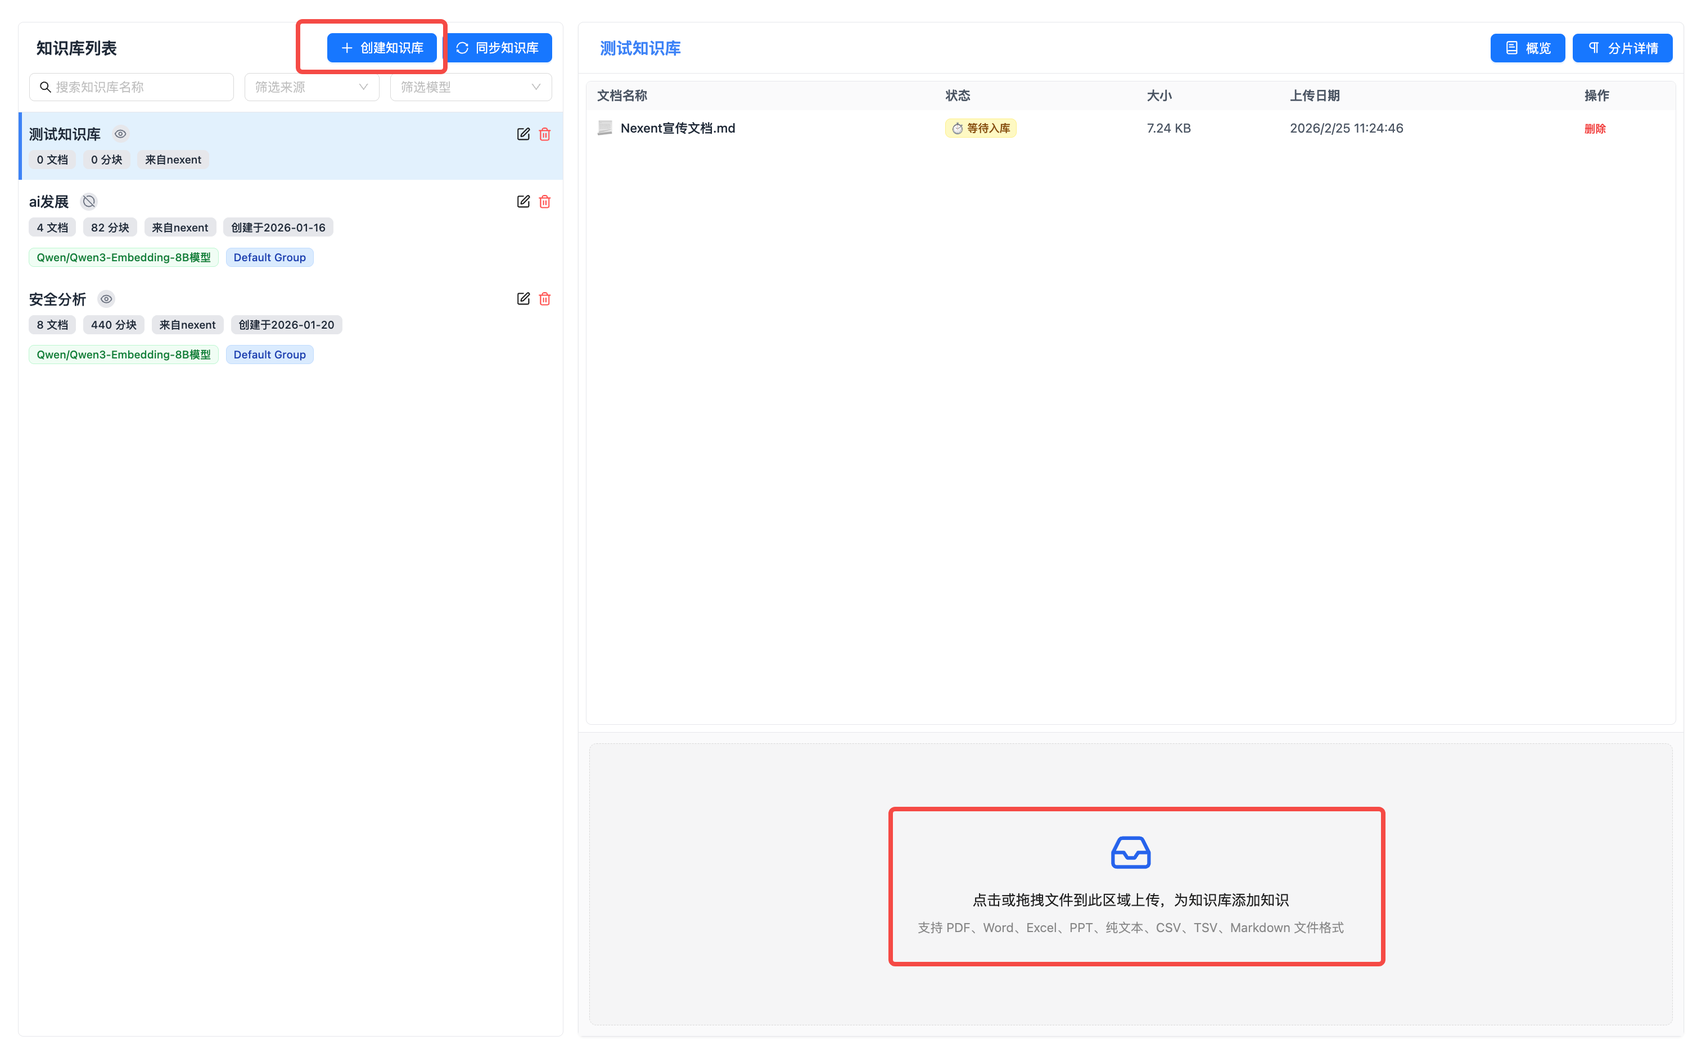
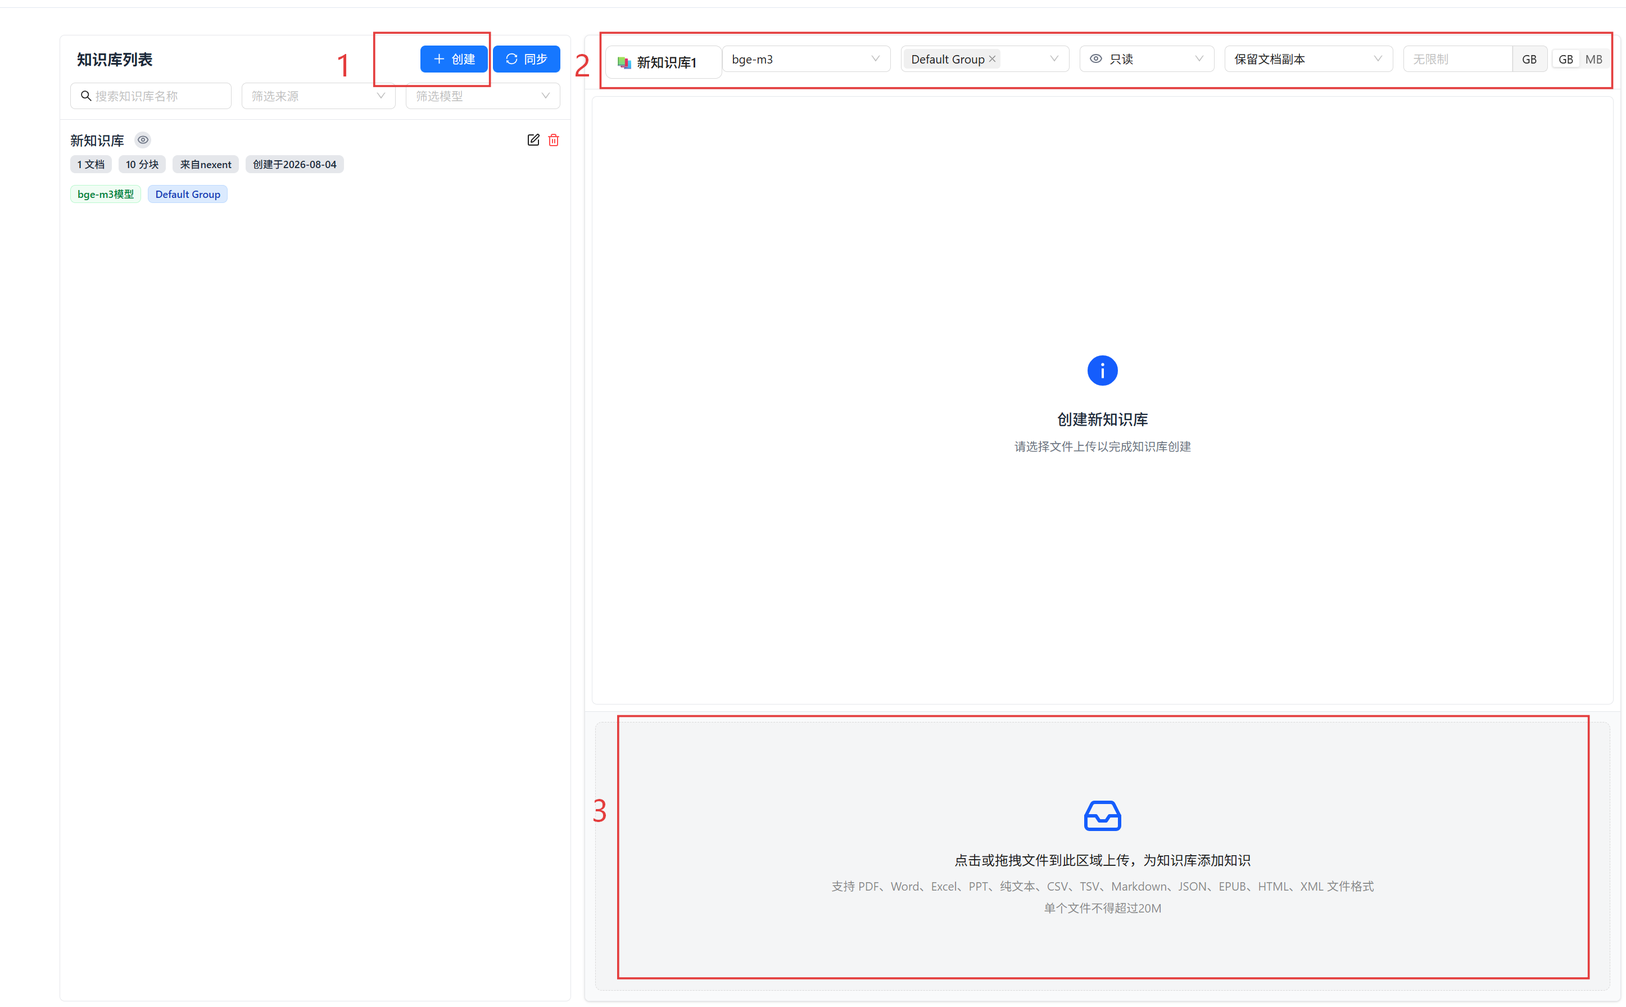
📝docs:update kbs docs

diff --git a/doc/docs/zh/user-guide/agent-development/knowledge-configuration.md b/doc/docs/zh/user-guide/agent-development/knowledge-configuration.md
@@ -4,8 +4,23 @@
 
 ## 🔧 创建知识库
 
-1. 点击"创建知识库"按钮
-2. 为知识库设置一个易于识别的名称
+1. 点击左侧知识库列表上方的"创建知识库"按钮
+2. 在弹出的创建面板中，填写以下配置项：
+
+| 配置项         | 说明                                                                                                                                                                                                                             |
+| -------------- | -------------------------------------------------------------------------------------------------------------------------------------------------------------------------------------------------------------------------------- |
+| **知识库名称** | 必填，名称必须唯一，且只能包含中文字符或小写字母，不允许空格、斜杠等特殊字符。系统会在输入时自动检测名称是否重复                                                                                                                 |
+| **向量模型**   | 选择用于文档向量化的 Embedding 模型。模型分为两类：**文本向量模型（embedding）** 和 **多模态向量模型（multi_embedding）**。选择多模态向量模型后，知识库将自动支持图片等非文本内容的向量化处理。详见[向量模型说明](#向量模型说明) |
+| **用户组**     | 选择知识库可见的用户组（多选），控制哪些用户组可以查看和使用该知识库                                                                                                                                                             |
+| **组内权限**   | 设置用户组内成员对该知识库的操作权限：**编辑（EDIT）** - 可上传/删除文件；**只读（READ_ONLY）** - 仅可查看和检索；**私有（PRIVATE）** - 仅创建者可用                                                                             |
+| **保留源文件** | 开启后，上传的原始文件会被保留存储在系统中，方便后续重新处理或下载；关闭则仅保留向量化后的数据                                                                                                                                   |
+| **存储配额**   | 可选，为该知识库设置存储上限（支持 GB/MB 单位切换）。当上传文件导致存储用量接近配额时，系统会发出预警提示                                                                                                                        |
+
+3. 配置完成后，在下方文件上传区域选择要上传的文件（可跳过，后续再上传）
+4. 文件上传后系统自动创建知识库并开始处理文件
+
+
+![创建知识库](../assets/knowledge-base/create-knowledge-base.png)
 
 ## 📁 上传文件
 
@@ -14,13 +29,28 @@
 1. 在知识库列表中选择要上传文件的知识库
 2. 点击文件上传区域，选择要上传的文件（支持多选），或直接拖拽文件到上传区域
 3. 系统会自动处理上传的文件，提取文本内容并进行向量化
-4. 可在列表中查看文件的处理状态（解析中/入库中/已就绪）
+4. 可在列表中查看文件的处理状态
 
-![文件上传](../assets/knowledge-base/create-knowledge-base.png)
+:::tip 文件大小限制
+单个文件上传大小限制为 **20 MB**。超过此限制的文件将无法上传。
+:::
 
-💡 光标移动至状态，以了解进度及报错原因
+### 文件处理状态
 
-![文件上传](../assets/knowledge-base/tip.png)
+文件上传后会经过多个处理阶段，共有 6 种状态：
+
+| 状态         | 说明                                                                 |
+| ------------ | -------------------------------------------------------------------- |
+| 等待处理     | 文件已上传，排队等待开始解析                                         |
+| **解析中**   | 系统正在提取文件文本内容                                             |
+| **入库中**   | 文本内容正在进行向量化并写入向量数据库                               |
+| **已就绪**   | 文件处理完成，可正常检索使用                                         |
+| **解析失败** | 文件解析过程中出错。将光标移至状态图标可查看详细错误原因和排查建议   |
+| **入库失败** | 向量化入库过程中出错。将光标移至状态图标可查看详细错误原因和排查建议 |
+
+💡 光标移动至状态图标，以了解当前处理进度（如"已处理 23/50 个分片"）及失败状态的报错原因
+
+![文件进度与错误提示](../assets/knowledge-base/tip.png)
 
 ### 支持的文件格式
 
@@ -39,18 +69,81 @@ Nexent支持多种文件格式，包括：
 
 建议您为每个知识库配置准确且完整的总结描述，这有助于后续智能体在进行检索时，准确选择合适的知识库。
 
-1. 点击“详细内容”按钮进入知识库详细内容查看界面
-2. 选择合适的模型，点击“自动总结”按钮为知识库自动生成内容总结
+### 手动生成与编辑总结
+
+1. 点击知识库名称右侧的"详细内容"按钮，进入知识库概览页面
+2. 在概览页面选择合适的大语言模型（LLM），点击"自动总结"按钮为知识库自动生成内容总结
 3. 您可对生成的内容总结进行编辑修改，使其更准确
-4. 最后记得点击“保存”将您的修改保存
+4. 最后记得点击"保存"将您的修改保存
 
 ![内容总结](../assets/knowledge-base/summary-knowledge-base.png)
 
+### 自动总结频率
+
+除了手动触发总结，您还可以为知识库设置**定时自动总结**，让系统在后台定期重新生成知识库的内容总结：
+
+| 频率选项 | 说明                                     |
+| -------- | ---------------------------------------- |
+| 1 小时   | 高频更新，适用于内容变化频繁的知识库     |
+| 3 小时   | 中高频更新                               |
+| 6 小时   | 中频更新                                 |
+| 1 天     | 每天更新一次，适用于大多数场景           |
+| 1 周     | 每周更新一次，适用于内容较为稳定的知识库 |
+
+在概览页面的总结区域选择频率即可。系统会智能判断知识库是否有文档更新，若无新文档变更则跳过本次自动生成，避免不必要的资源消耗。
+
+## 📂 Chunk 分片管理
+
+文档上传后，系统会将文档拆分为多个 **Chunk（分片）**，每个分片包含一段文本内容并生成对应的向量索引。您可以对分片进行精细化管理：
+
+### 查看分片
+
+1. 点击知识库名称进入文档列表
+2. 点击上方"Chunk 详情"标签页
+3. 页面顶部会列出知识库中的所有文档，点击某个文档即可查看该文档被拆分出的全部分片
+4. 分片以卡片形式展示，包含分片内容和所属文件名
+
+### 搜索分片
+
+在 Chunk 详情页使用搜索框进行搜索，系统会同时对结果进行关键词匹配和语义匹配（混合搜索），按综合相关性排序展示。
+
+### 手动管理分片
+
+| 操作     | 说明                                       |
+| -------- | ------------------------------------------ |
+| **创建** | 在 Chunk 详情页手动添加自定义分片内容      |
+| **编辑** | 点击分片卡片进入编辑模式，修改分片文本内容 |
+| **删除** | 删除不需要的分片                           |
+| **下载** | 将分片内容导出下载                         |
+
+:::warning 模型兼容性限制
+分片的编辑和创建操作依赖向量模型的一致性。如果模型配置发生变化，相关操作可能被自动禁用，以防止产生不兼容的向量数据。
+:::
+
+![分片管理](../assets/knowledge-base/chunk_management.png)
+
+
+
+## 🧩 向量模型说明
+
+系统中的 Embedding 模型分为两类：
+
+- **文本向量模型（embedding）**：用于纯文本文档的向量化，如 BGE、M3E 等
+- **多模态向量模型（multi_embedding）**：可同时处理文本和图片内容，如 DashScope、Jina 等
+
+知识库创建时选择的向量模型会与该知识库绑定。建议在创建知识库时根据文档类型选择合适的模型，创建后该模型将贯穿知识库的整个生命周期。
+
 ## 🔧 使用知识库
 
-Nexent支持知识库与智能体单独绑定，在创建智能体时，**启用knowledge_base_search工具**，并选择关联的知识库
-<img src="../assets/knowledge-base/knowledge-tool.png" alt="工具1" style="width:75%;">
+Nexent 支持知识库与智能体绑定。创建智能体时，在工具配置区域启用对应的知识库检索工具，并选择关联的知识库。
+
+根据知识库来源的不同，系统提供对应的检索工具。Nexent 原生知识库使用 **knowledge_base_search** 工具：
+
+![工具1](../assets/knowledge-base/knowledge-tool1.png)
+
 ![工具2](../assets/knowledge-base/knowledge-tool2.png)
+
+在工具配置弹窗中，您可看到已绑定的知识库列表，支持搜索和勾选操作。每个知识库旁边会显示其向量模型信息，帮助您确认兼容性。
 
 ## 🔍 知识库管理
 
@@ -58,25 +151,38 @@ Nexent支持知识库与智能体单独绑定，在创建智能体时，**启用
 
 1. **知识库列表**
    - 知识库页面左侧展示了所有已创建的知识库
-   - 知识库列表处支持对知识库来源和向量模型的筛选
-   - 显示知识库名称、文件数量、创建时间、用户组等信息
+   - 知识库列表处支持按名称搜索、按知识库来源和向量模型筛选
+   - 每张知识库卡片展示以下信息：
+
+   | 信息项       | 说明                                                   |
+   | ------------ | ------------------------------------------------------ |
+   | 知识库名称   | 创建时设定的名称                                       |
+   | 文档数量     | 已上传的文档总数                                       |
+   | 分片数量     | 文档拆分后的 chunk 总数                                |
+   | 来源         | 知识库来源（Nexent 原生 / 外部来源）                   |
+   | 创建时间     | 知识库创建日期                                         |
+   | 向量模型     | 绑定的 Embedding 模型名称                              |
+   | 多模态标签   | 若启用多模态则显示                                     |
+   | 用户组标签   | 该知识库可见的用户组名称                               |
+   | 权限图标     | 当前用户对该知识库的操作权限（将光标移至图标查看说明） |
+   | 无源文件标签 | 若已关闭"保留源文件"则显示                             |
+
+2. **知识库详情**
+   - 点击知识库名称，可查看知识库中全部文档信息
+   - 点击"详细内容"，可进入知识库概览页面查看和编辑内容总结
 
 > 点击编辑，可管理知识库的名称、可见的用户组及组内权限
 
 <img src="../assets/knowledge-base/knowledge-base-permission.png" alt="知识库权限" style="width:50%;">
 
-2. **知识库详情**
-   - 点击知识库名称，可查看知识库中全部文档信息
-   - 点击“详细内容”，可查看知识库的内容总结
-
 ### 编辑知识库
 
 1. **删除知识库**
-   - 点击知识库名称右侧“删除”按钮
+   - 点击知识库名称右侧"删除"按钮
    - 确认删除操作（此操作不可恢复）
 
 2. **删除或新增文件**
-   - 点击知识库名称，在文件列表中点击“删除”按钮，可从知识库中删除文件
+   - 点击知识库名称，在文件列表中点击"删除"按钮，可从知识库中删除文件
    - 点击知识库名称，在文件列表下方文件上传区域，可新增文件到知识库中
 
 ## 🚀 下一步

diff --git a/doc/docs/en/user-guide/agent-development/knowledge-configuration.md b/doc/docs/en/user-guide/agent-development/knowledge-configuration.md
@@ -4,9 +4,23 @@ Create and manage knowledge bases, upload documents, and generate summaries. Kno
 
 ## 🔧 Create a Knowledge Base
 
-1. Click **Create Knowledge Base**
-2. Enter a descriptive, unique name
-   > **Note:** Knowledge base names must be unique and can only contain Chinese characters or lowercase letters. Spaces, slashes, and other special characters are not allowed.
+1. Click **Create Knowledge Base** at the top of the left-side list
+2. In the creation panel, fill in the following fields:
+
+| Field | Description |
+|-------|-------------|
+| **Name** | Required. Must be unique and can only contain Chinese characters or lowercase letters. Spaces, slashes, and other special characters are not allowed. The system automatically checks for duplicates as you type |
+| **Embedding Model** | Choose the vector model used to embed your documents. Models fall into two groups: **Text Embedding (embedding)** and **Multimodal Embedding (multi_embedding)**. Selecting a multimodal model automatically enables vectorization of non-text content such as images. See [Embedding Model Types](#embedding-model-types) |
+| **User Groups** | Select which user groups can access this knowledge base (multi-select) |
+| **In-Group Permission** | Controls what group members can do: **Edit** — upload and delete files; **Read Only** — view and search only; **Private** — only the creator can access |
+| **Preserve Source File** | When enabled, uploaded files are kept in the system for later re-processing or download. When disabled, only the vectorized data is stored |
+| **Storage Quota** | Optional. Set a storage cap for the knowledge base (switchable between GB and MB). The system raises a warning when storage usage approaches the quota |
+
+3. After configuring the fields above, select files to upload in the upload area below (or skip and upload later)
+4. Once files are uploaded, the knowledge base is created and processing begins automatically
+
+
+![Create Knowledge Base](../assets/knowledge-base/create-knowledge-base.png)
 
 ## 📁 Upload Files
 
@@ -15,23 +29,39 @@ Create and manage knowledge bases, upload documents, and generate summaries. Kno
 1. Select a knowledge base from the list
 2. Click the upload area to pick files (multi-select supported) or drag them in directly
 3. Nexent automatically parses files, extracts text, and vectorizes the content
-4. Track the processing status in the list (Parsing/Ingesting/Ready)
+4. Track the processing status in the document list
 
-![File Upload](../assets/knowledge-base/create-knowledge-base.png)
+:::tip File Size Limit
+Maximum upload size per file is **20 MB**. Files exceeding this limit cannot be uploaded.
+:::
 
-💡 Hover over the status to understand the progress and error reasons
+### Document Processing Status
 
-![File Upload](../assets/knowledge-base/tip.png)
+Uploaded files go through multiple stages. There are 6 distinct statuses:
+
+| Status | Description |
+|--------|-------------|
+| Waiting | File uploaded and queued for processing |
+| **Parsing** | System is extracting text content from the file |
+| **Ingesting** | Text is being vectorized and written into the vector database |
+| **Ready** | Processing complete — the document is available for retrieval |
+| **Parse Failed** | An error occurred during parsing. Hover over the status icon to see the detailed error reason and troubleshooting suggestions |
+| **Ingest Failed** | An error occurred during vectorization. Hover over the status icon to see the detailed error reason and troubleshooting suggestions |
+
+💡 Hover over the status icon to view real-time progress (e.g., "23/50 chunks processed") and error details for failed documents.
+
+![Processing Progress and Error Tooltip](../assets/knowledge-base/tip.png)
 
 ### Supported File Formats
 
 Nexent supports multiple file formats, including:
-- **Text:** .txt, .md, .csv, .json
+
+- **Text:** .txt, .md, .json
 - **PDF:** .pdf
 - **Word:** .docx
 - **PowerPoint:** .pptx
-- **EPUB:** .epub
 - **Excel:** .xlsx
+- **EPUB:** .epub
 - **Data files:** .csv
 - **Web content:** .html, .xml
 
@@ -39,20 +69,81 @@ Nexent supports multiple file formats, including:
 
 Give every knowledge base a clear summary so agents can pick the right source during retrieval.
 
-1. Click **Details** to open the detailed view
-2. Choose a model and click **Auto Summary** to generate a description
+### Generate and Edit Summaries Manually
+
+1. Click **Details** to the right of the knowledge base name to open the overview page
+2. In the overview page, choose an LLM model and click **Auto Summary** to generate a description
 3. Edit the generated text to improve accuracy
 4. Click **Save** to store your changes
 
 ![Content Summary](../assets/knowledge-base/summary-knowledge-base.png)
 
+### Scheduled Auto-Summary
+
+In addition to manual triggers, you can configure **scheduled auto-summary** to let the system periodically regenerate the knowledge base summary in the background:
+
+| Frequency | Description |
+|-----------|-------------|
+| 1 Hour | High-frequency updates — suitable for knowledge bases with frequent content changes |
+| 3 Hours | Medium-high frequency updates |
+| 6 Hours | Medium frequency updates |
+| 1 Day | Once a day — suitable for most scenarios |
+| 1 Week | Once a week — suitable for mostly static knowledge bases |
+
+Select the frequency in the summary section of the overview page. The system intelligently checks whether the knowledge base has received document updates since the last run; if no new documents have been added or changed, the generation is skipped to save resources.
+
+## 📂 Chunk Management
+
+After upload, each document is split into multiple **Chunks**. Each chunk contains a segment of text and has a corresponding vector index entry. You can perform fine-grained management on chunks.
+
+### Viewing Chunks
+
+1. Click a knowledge base name to open the document list
+2. Click the **Chunk Details** tab at the top
+3. All documents in the knowledge base are listed at the top of the page. Click any document to view all of its chunks
+4. Chunks are displayed as cards showing the chunk content and the source file name
+
+### Searching Chunks
+
+Use the search box on the Chunk Details page to search for chunks. The system performs a hybrid search combining keyword matching and semantic matching, and returns results ranked by overall relevance.
+
+### Manually Managing Chunks
+
+| Action | Description |
+|--------|-------------|
+| **Create** | Add a custom chunk manually on the Chunk Details page |
+| **Edit** | Click a chunk card to enter edit mode and modify its text content |
+| **Delete** | Remove unwanted chunks |
+| **Download** | Export chunk content as a download |
+
+:::warning Model Compatibility Restriction
+Chunk edit and create operations depend on embedding model consistency. If the model configuration has changed, these operations may be automatically disabled to prevent incompatible vector data from being written.
+:::
+
+![Chunk Management](../assets/knowledge-base/chunk_management.png)
+
+
+
+## 🧩 Embedding Model Types
+
+Embedding models in the system are divided into two categories:
+
+- **Text Embedding models (embedding)**: For vectorizing pure text documents (e.g., BGE, M3E)
+- **Multimodal Embedding models (multi_embedding)**: Can process both text and image content (e.g., DashScope, Jina)
+
+The embedding model selected when a knowledge base is created remains bound to that knowledge base for its entire lifecycle. Choose the appropriate model type based on your document content when creating a knowledge base.
+
 ## 🔧 Using Knowledge Bases
 
-Nexent supports binding knowledge bases to agents individually. When creating an agent, **enable the knowledge_base_search tool** and select the associated knowledge base.
+Nexent supports binding knowledge bases to agents. When creating an agent, enable the appropriate knowledge retrieval tool in the tool configuration panel and select the associated knowledge bases.
 
-<img src="../assets/knowledge-base/knowledge-tool.png" alt="Tool 1" style="width:75%;">
+For Nexent-native knowledge bases, enable the **knowledge_base_search** tool:
+
+![Tool 1](../assets/knowledge-base/knowledge-tool1.png)
 
 ![Tool 2](../assets/knowledge-base/knowledge-tool2.png)
+
+Inside the tool configuration modal, you will see the list of bound knowledge bases with search and multi-select support. Each knowledge base displays its embedding model name so you can confirm compatibility before binding.
 
 ## 🔍 Knowledge Base Management
 
@@ -60,10 +151,29 @@ Nexent supports binding knowledge bases to agents individually. When creating an
 
 1. **Knowledge Base List**
    - The left column lists every created knowledge base
-   - Shows the name, file count, creation time, and more
+   - Supports searching by name and filtering by knowledge source or embedding model
+   - Each knowledge base card shows the following information:
+
+   | Info | Description |
+   |------|-------------|
+   | Name | The name set at creation time |
+   | Document Count | Total number of uploaded documents |
+   | Chunk Count | Total number of document chunks after splitting |
+   | Source | Knowledge base origin (Nexent native / external source) |
+   | Created At | Date when the knowledge base was created |
+   | Embedding Model | Name of the bound embedding model |
+   | Multimodal Badge | Shown if multimodal support is enabled |
+   | User Group Tags | Names of the user groups this knowledge base is visible to |
+   | Permission Icon | Your current access level for this knowledge base (hover over the icon to see details) |
+   | No Source File Badge | Shown when "Preserve Source File" is disabled |
+
 2. **Knowledge Base Details**
-   - Click a knowledge base to see all documents
-   - Click **Details** to view or edit the summary
+   - Click a knowledge base name to view all documents
+   - Click **Details** to open the overview page for viewing and editing the summary
+
+> Click **Edit** to manage the knowledge base name, visible user groups, and in-group permissions
+
+<img src="../assets/knowledge-base/knowledge-base-permission.png" alt="Knowledge Base Permissions" style="width:50%;">
 
 ### Edit Knowledge Bases
 
@@ -72,8 +182,8 @@ Nexent supports binding knowledge bases to agents individually. When creating an
    - Confirm the deletion (irreversible)
 
 2. **Delete or Add Files**
-   - Inside the file list, click **Delete** to remove a document
-   - Use the upload area under the list to add new files
+   - Inside the document list, click **Delete** to remove a document
+   - Use the upload area below the document list to add new files
 
 ## 🚀 Next Steps
 
